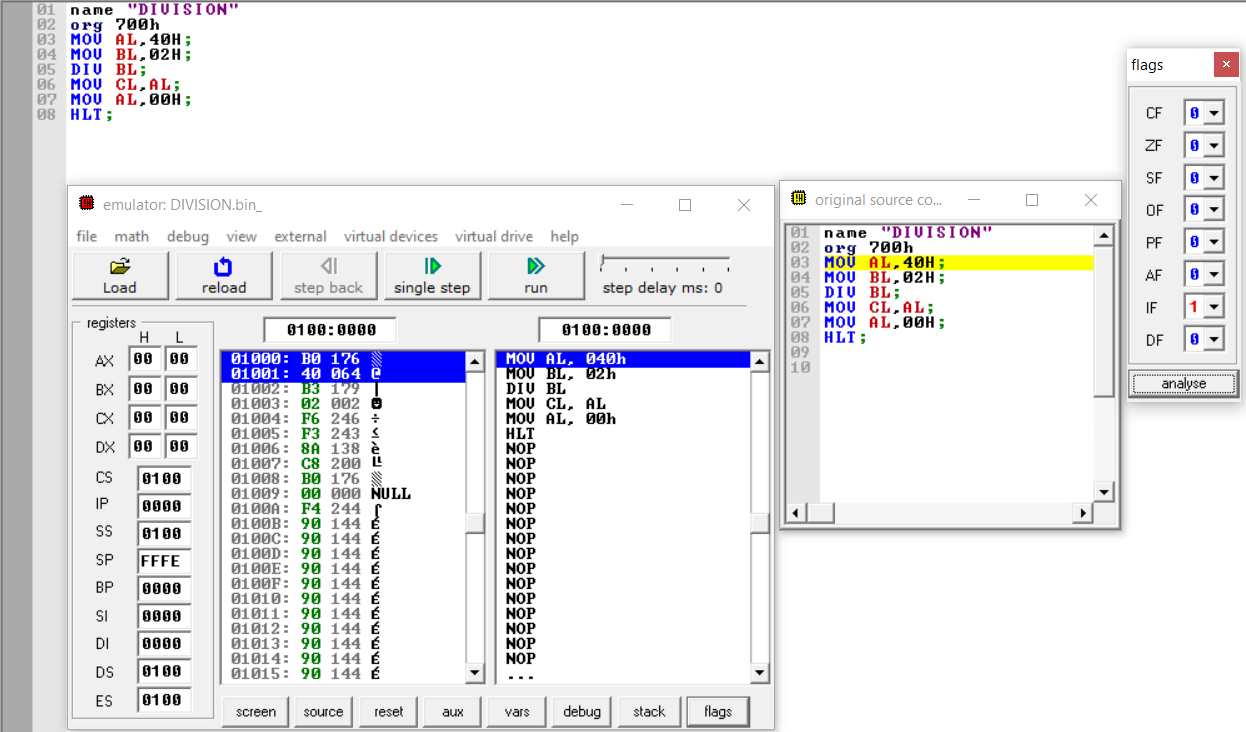
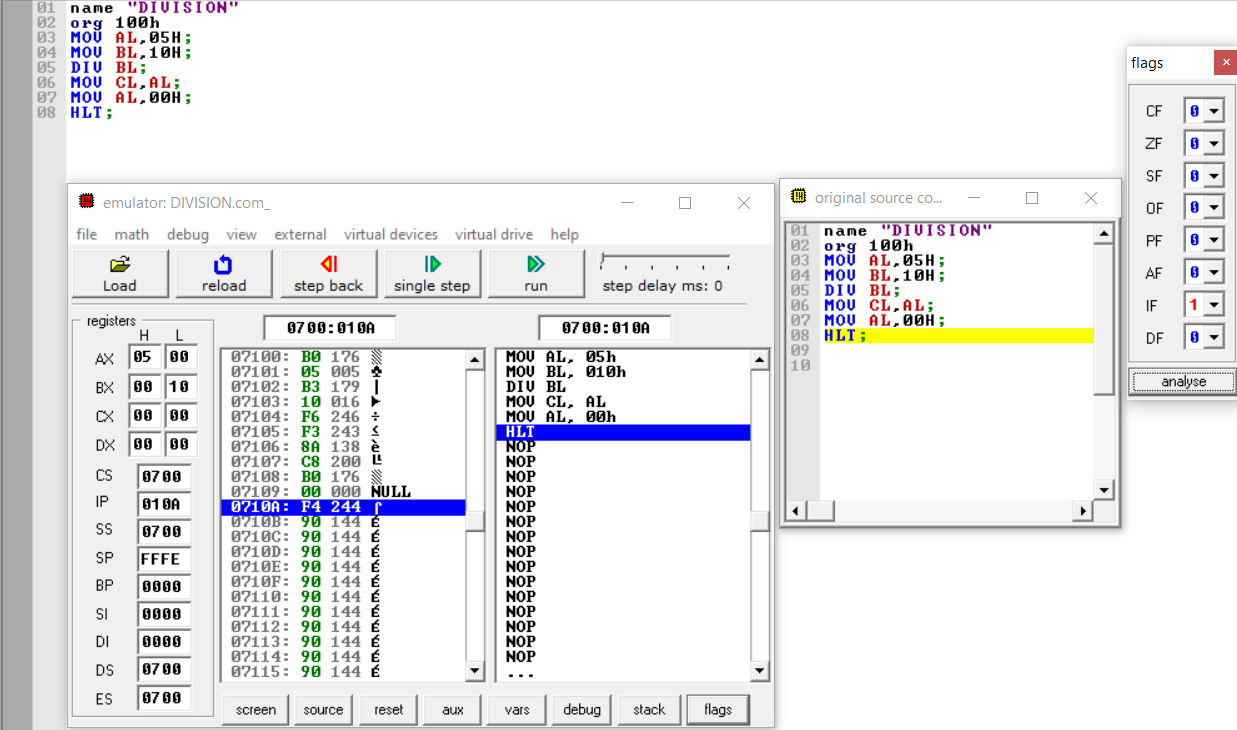
Add files via upload

Changed region(s): [[0.0614, 0.0603, 1.0, 1.0], [0.0307, 0.0, 1.0, 0.1808]]

diff --git a/README.md b/README.md
@@ -44,7 +44,7 @@ Running The Emulator (emu8086) Intro 8086 Microprocessor Emulator, also known as
 name "ADDITION"
 org 100h
 MOV AH,05H;
-MOV BH,02H;
+MOV BH,10H;
 ADD AH,BH;
 MOV CH,AH;
 MOV AH,00H;
@@ -52,14 +52,14 @@ HLT;
 ```
 
 ## OUTPUT:
-![output](addition.png)  
+![output](add.png)  
  
 ## Subtraction of 8 bit ALP:
 ```
 name "SUBTRACTION"
 org 100h
-MOV AH,09H;
-MOV BH,03H;
+MOV AH,05H;
+MOV BH,10H;
 SUB AH,BH;
 MOV CH,AH;
 MOV AH,00H;
@@ -72,9 +72,9 @@ HLT;
 ## Multiplication of 8 bit ALP:
 ```
 name "MULTIPLICATION"
-org 700h
-MOV AL,15H;
-MOV BL,03H;
+org 100h
+MOV AL,05H;
+MOV BL,10H;
 MUL BL;
 MOV CL,AL;
 MOV AL,00H;
@@ -87,9 +87,9 @@ HLT;
 ## Division of 8 bit ALP:
 ```
 name "DIVISION"
-org 700h
-MOV AL,40H;
-MOV BL,02H;
+org 100h
+MOV AL,05H;
+MOV BL,10H;
 DIV BL;
 MOV CL,AL;
 MOV AL,00H;
